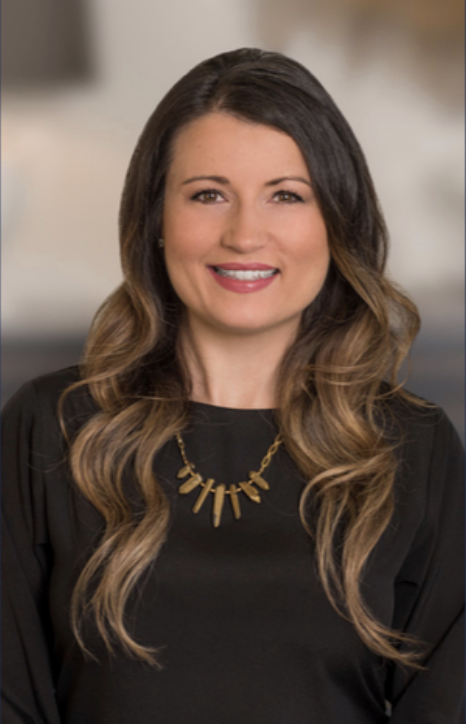
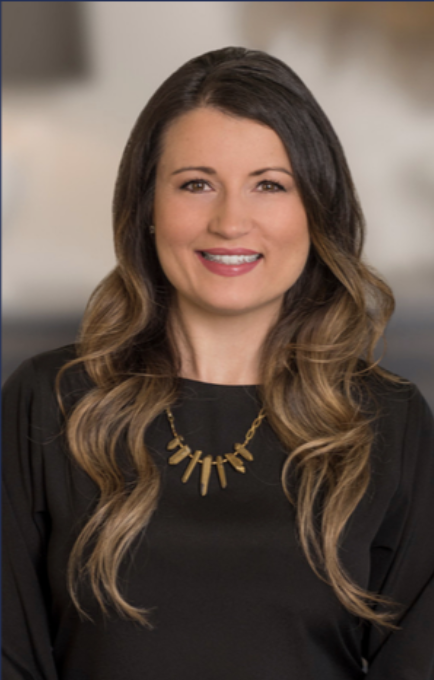
update pages
pages

diff --git a/css/pages.css b/css/pages.css
@@ -78,8 +78,6 @@ b {
 	color: #838B8B!important;
 }
 
-
-
 .showcase-text{
 	background: #f8f8f8;
     padding: 7rem 1rem !important;
@@ -89,17 +87,12 @@ b {
     color:#182229;
 }
 
-
-
-
-
 .space{
     margin-top: 130px;
     margin-bottom: 50px;
     margin-left: 5px;
     margin-right: 5px;
 }
-
 
 .title{
     font-style: normal;
@@ -115,7 +108,6 @@ section{
     padding-bottom: 3em;
     margin-bottom: 7rem;
 }
-
 
 .fit{
     display: block;
@@ -151,6 +143,6 @@ ul.oneoff li:first-child {
 
 
 .team{
-    width:50%;
+    width:70%;
     border-radius: 10px;
 }
